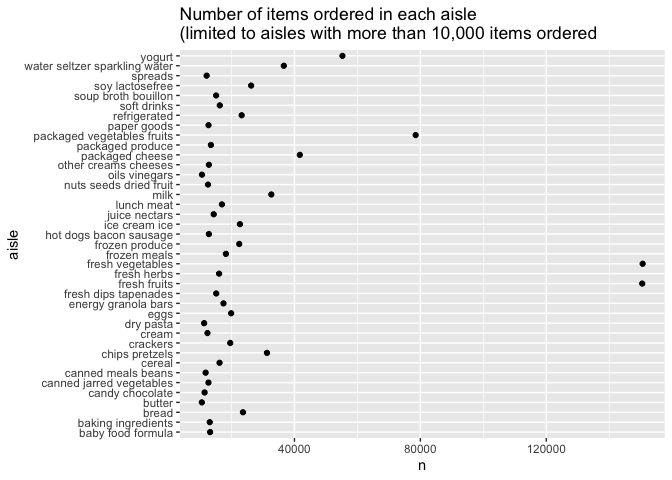
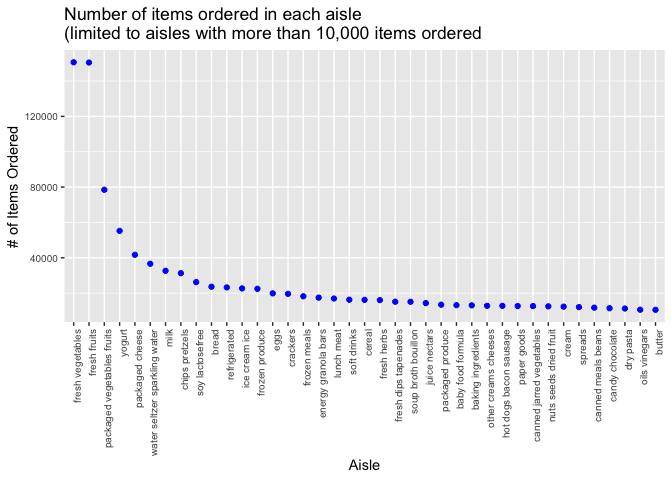
created ggplot for instacart

Changed region(s): [[0.0, 0.0, 1.0, 1.0], [0.3125, 0.5, 0.375, 0.5312], [0.5938, 0.2812, 0.625, 0.3125]]

diff --git a/p8105_hw3_blm2156.md b/p8105_hw3_blm2156.md
@@ -8,14 +8,14 @@ Britney Mazzetta - blm2156
 library(tidyverse)
 ```
 
-    ## ── Attaching packages ──────────────────────────────── tidyverse 1.2.1 ──
+    ## ── Attaching packages ───────────────────────────────────────────────────────────────────── tidyverse 1.2.1 ──
 
     ## ✔ ggplot2 3.2.1     ✔ purrr   0.3.2
     ## ✔ tibble  2.1.3     ✔ dplyr   0.8.3
     ## ✔ tidyr   1.0.0     ✔ stringr 1.4.0
     ## ✔ readr   1.3.1     ✔ forcats 0.4.0
 
-    ## ── Conflicts ─────────────────────────────────── tidyverse_conflicts() ──
+    ## ── Conflicts ──────────────────────────────────────────────────────────────────────── tidyverse_conflicts() ──
     ## ✖ dplyr::filter() masks stats::filter()
     ## ✖ dplyr::lag()    masks stats::lag()
 
@@ -48,9 +48,13 @@ The aisle in which the third most items were ordered from is aisle 123
 instacart_plot = filter(aisle_info, n >10000)
 ggplot(
   instacart_plot, 
-  aes(x = n, y = aisle)) + 
-  geom_point() +
-  ggtitle("Number of items ordered in each aisle \n(limited to aisles with more than 10,000 items ordered")
+  aes(x = reorder(aisle, -n), y =n)) + 
+  geom_point(color = 'blue') +
+  theme(axis.text.x = element_text(angle = 90, hjust = 1),
+        axis.text = element_text(size = 7.5)) +
+  ggtitle("Number of items ordered in each aisle \n(limited to aisles with more than 10,000 items ordered") +
+labs(y = "# of Items Ordered",
+     x = "Aisle")
 ```
 
 ![](p8105_hw3_blm2156_files/figure-gfm/unnamed-chunk-3-1.png)<!-- -->
